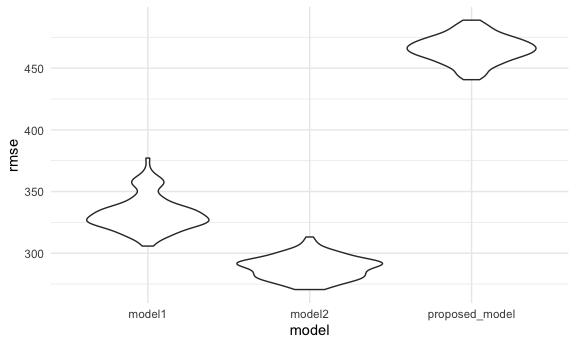
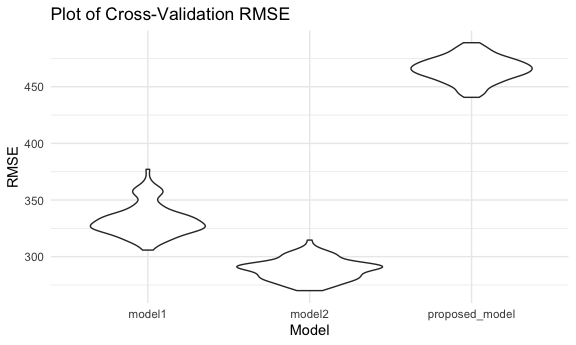
finish problem 3

diff --git a/p8105_hw6_lmt2203.md b/p8105_hw6_lmt2203.md
@@ -127,54 +127,11 @@ baby_df =
 
 **Modeling process**
 
-Proposed model
-
-``` r
-summary(lm(bwt ~ ., data = baby_df))  #babysex, bhead, blength, delwt, gaweeks, parity (*), smoken.
-```
-
-    ## 
-    ## Call:
-    ## lm(formula = bwt ~ ., data = baby_df)
-    ## 
-    ## Residuals:
-    ##      Min       1Q   Median       3Q      Max 
-    ## -1096.88  -185.28    -3.45   172.24  2347.81 
-    ## 
-    ## Coefficients: (7 not defined because of singularities)
-    ##                     Estimate Std. Error t value Pr(>|t|)    
-    ## (Intercept)       -6342.3515   659.7373  -9.613  < 2e-16 ***
-    ## babysexmale         -28.5990     8.4718  -3.376 0.000743 ***
-    ## bhead               130.6846     3.4534  37.842  < 2e-16 ***
-    ## blength              75.0054     2.0231  37.074  < 2e-16 ***
-    ## delwt                 4.1302     0.3951  10.455  < 2e-16 ***
-    ## fincome               0.3071     0.1796   1.710 0.087346 .  
-    ## fraceBlack          -80.9741    41.7014  -1.942 0.052231 .  
-    ## fraceOther           19.4250    83.7314   0.232 0.816555    
-    ## fracePuerto Rican   -48.2100    44.4466  -1.085 0.278128    
-    ## fraceWhite           52.6086    41.3134   1.273 0.202944    
-    ## gaweeks              11.5992     1.4667   7.908 3.29e-15 ***
-    ## malformpresent        9.9691    70.6959   0.141 0.887865    
-    ## menarche             -3.4617     2.8971  -1.195 0.232193    
-    ## mheight              10.4318    10.3157   1.011 0.311950    
-    ## momage                0.8249     1.2209   0.676 0.499320    
-    ## mraceBlack                NA         NA      NA       NA    
-    ## mraceOther                NA         NA      NA       NA    
-    ## mracePuerto Rican         NA         NA      NA       NA    
-    ## mraceWhite                NA         NA      NA       NA    
-    ## parity               95.6069    40.5193   2.360 0.018342 *  
-    ## pnumlbw                   NA         NA      NA       NA    
-    ## pnumsga                   NA         NA      NA       NA    
-    ## ppbmi                 5.1566    14.8999   0.346 0.729296    
-    ## ppwt                 -3.6018     2.6139  -1.378 0.168289    
-    ## smoken               -4.7618     0.5869  -8.114 6.33e-16 ***
-    ## wtgain                    NA         NA      NA       NA    
-    ## ---
-    ## Signif. codes:  0 '***' 0.001 '**' 0.01 '*' 0.05 '.' 0.1 ' ' 1
-    ## 
-    ## Residual standard error: 272.7 on 4323 degrees of freedom
-    ## Multiple R-squared:  0.7176, Adjusted R-squared:  0.7164 
-    ## F-statistic: 610.2 on 18 and 4323 DF,  p-value: < 2.2e-16
+I run a linear regression for all the variables and found that the
+gestational age in weeks (`gaweeks`) and average number of cigarettes
+smoked per day during pregnancy (`smoken`) are significantly associated
+with babies’ birthweights. So I am gonna fit a model using gestational
+age and number of cigarettes smoked as predictors.
 
 ``` r
 proposed_model = lm(bwt ~ gaweeks + smoken, data = baby_df)
@@ -205,78 +162,26 @@ summary(proposed_model)
 
 ``` r
 baby_df %>% 
-  modelr::add_residuals(proposed_model) %>% 
-  ggplot(aes(x = resid)) +
-  geom_density()
+  add_predictions(proposed_model) %>% 
+  add_residuals(proposed_model) %>% 
+  ggplot(aes(x = pred, y = resid)) + 
+  geom_point() + 
+  labs(
+    x  = "Residuals",
+    y = "Fitted Values",
+    title = "Residuals vs. Fitted Values"
+  )
 ```
 
 <img src="p8105_hw6_lmt2203_files/figure-gfm/unnamed-chunk-7-1.png" width="90%" />
 
-``` r
-baby_df %>% 
-  modelr::add_residuals(proposed_model) %>% 
-  ggplot(aes(x = gaweeks, y = resid)) +
-  geom_point() 
-```
-
-<img src="p8105_hw6_lmt2203_files/figure-gfm/unnamed-chunk-7-2.png" width="90%" />
-
-Two other models for comparison:
+Two other models for comparison given in the prompt:
 
 ``` r
 model1 = lm(bwt ~ blength + gaweeks, data = baby_df)
-summary(model1)
-```
 
-    ## 
-    ## Call:
-    ## lm(formula = bwt ~ blength + gaweeks, data = baby_df)
-    ## 
-    ## Residuals:
-    ##     Min      1Q  Median      3Q     Max 
-    ## -1709.6  -215.4   -11.4   208.2  4188.8 
-    ## 
-    ## Coefficients:
-    ##              Estimate Std. Error t value Pr(>|t|)    
-    ## (Intercept) -4347.667     97.958  -44.38   <2e-16 ***
-    ## blength       128.556      1.990   64.60   <2e-16 ***
-    ## gaweeks        27.047      1.718   15.74   <2e-16 ***
-    ## ---
-    ## Signif. codes:  0 '***' 0.001 '**' 0.01 '*' 0.05 '.' 0.1 ' ' 1
-    ## 
-    ## Residual standard error: 333.2 on 4339 degrees of freedom
-    ## Multiple R-squared:  0.5769, Adjusted R-squared:  0.5767 
-    ## F-statistic:  2958 on 2 and 4339 DF,  p-value: < 2.2e-16
-
-``` r
 model2 = lm(bwt ~ bhead * blength * babysex, data = baby_df)
-summary(model2)
 ```
-
-    ## 
-    ## Call:
-    ## lm(formula = bwt ~ bhead * blength * babysex, data = baby_df)
-    ## 
-    ## Residuals:
-    ##      Min       1Q   Median       3Q      Max 
-    ## -1132.99  -190.42   -10.33   178.63  2617.96 
-    ## 
-    ## Coefficients:
-    ##                             Estimate Std. Error t value Pr(>|t|)    
-    ## (Intercept)                -801.9487  1102.3077  -0.728 0.466948    
-    ## bhead                       -16.5975    34.0916  -0.487 0.626388    
-    ## blength                     -21.6460    23.3720  -0.926 0.354421    
-    ## babysexmale               -6374.8684  1677.7669  -3.800 0.000147 ***
-    ## bhead:blength                 3.3244     0.7126   4.666 3.17e-06 ***
-    ## bhead:babysexmale           198.3932    51.0917   3.883 0.000105 ***
-    ## blength:babysexmale         123.7729    35.1185   3.524 0.000429 ***
-    ## bhead:blength:babysexmale    -3.8781     1.0566  -3.670 0.000245 ***
-    ## ---
-    ## Signif. codes:  0 '***' 0.001 '**' 0.01 '*' 0.05 '.' 0.1 ' ' 1
-    ## 
-    ## Residual standard error: 287.7 on 4334 degrees of freedom
-    ## Multiple R-squared:  0.6849, Adjusted R-squared:  0.6844 
-    ## F-statistic:  1346 on 7 and 4334 DF,  p-value: < 2.2e-16
 
 **Cross-validated predicted error**
 
@@ -292,7 +197,7 @@ cv_df =
   cv_df %>% 
   mutate(
     model1  = map(train, ~lm(bwt ~ blength + gaweeks, data = .x)),
-    model2  = map(train, ~lm(bwt ~ bhead + blength + babysex, data = .x)),
+    model2  = map(train, ~lm(bwt ~ bhead * blength * babysex, data = .x)),
     proposed_model  = map(train, ~lm(bwt ~ gaweeks + smoken, data = .x))
     ) %>% 
   mutate(
@@ -313,16 +218,130 @@ cv_df %>%
     values_to = "rmse",
     names_prefix = "rmse_"
   ) %>% 
+  mutate(model = fct_inorder(model)) %>% 
   ggplot(aes(x = model, y = rmse)) +
-  geom_violin()
+  geom_violin() +
+  labs(
+    x = "Model",
+    y = "RMSE",
+    title = "Plot of Cross-Validation RMSE"
+  )
 ```
 
 <img src="p8105_hw6_lmt2203_files/figure-gfm/unnamed-chunk-10-1.png" width="90%" />
+
+The second comparison model with predictors head circumference, length,
+sex and all their interactions has the overall lowest RMSE values. My
+proposed model has the highest RMSE. Between these three models, I would
+probably pick the second model.
 
 # Problem 3
 
 Download dataset and just focus on Central Park, NY data.
 
-use bootstraps to obtain distribution for parameters interested in. Fit
-a linear model of tmax and tmin. Proporiton of r squared value
-(broom::glance) and log of (bo + b1) (broom::tidy)
+``` r
+weather_df = 
+  rnoaa::meteo_pull_monitors(
+    c("USW00094728"),
+    var = c("PRCP", "TMIN", "TMAX"), 
+    date_min = "2017-01-01",
+    date_max = "2017-12-31") %>%
+  mutate(
+    name = recode(id, USW00094728 = "CentralPark_NY"),
+    tmin = tmin / 10,
+    tmax = tmax / 10) %>%
+  select(name, id, everything())
+```
+
+    ## Registered S3 method overwritten by 'hoardr':
+    ##   method           from
+    ##   print.cache_info httr
+
+    ## using cached file: /Users/linhmaitran/Library/Caches/R/noaa_ghcnd/USW00094728.dly
+
+    ## date created (size, mb): 2020-10-05 10:25:47 (7.522)
+
+    ## file min/max dates: 1869-01-01 / 2020-10-31
+
+Bootstrap 5000 samples
+
+``` r
+set.seed(1)
+
+weather_boot_results =
+  weather_df %>%
+  bootstrap(5000, id = "strap_number") %>% 
+  mutate(
+    models = map(.x = strap, ~lm (tmax ~ tmin, data = .x)),
+    results = map(models, broom::tidy),
+    glance = map(models, broom::glance)
+  ) %>% 
+  unnest(results, glance) %>% 
+  select(strap_number, term, estimate, r.squared) %>% 
+  pivot_wider(
+    names_from = "term",
+    values_from = "estimate"
+  ) %>% 
+  rename(intercept = "(Intercept)") %>% 
+  mutate(log_est = log(intercept * tmin))
+```
+
+    ## Warning: unnest() has a new interface. See ?unnest for details.
+    ## Try `df %>% unnest(c(results, glance))`, with `mutate()` if needed
+
+**Distribution of \({\hat{r}}^2\)**
+
+``` r
+weather_boot_results %>% 
+  ggplot(aes(x = r.squared)) +
+  geom_density() +
+  labs(
+    x = "R-squared Estimate",
+    title = "Distribution of R-squared Estimate"
+  )
+```
+
+<img src="p8105_hw6_lmt2203_files/figure-gfm/unnamed-chunk-13-1.png" width="90%" />
+
+The distribution of r-squared is slightly left-skewed.  
+
+Distribution of \(log(\widehat{\beta_o}\ *\ \widehat{\beta_1})\ \)
+
+``` r
+weather_boot_results %>% 
+  ggplot(aes(x = log_est)) + 
+  geom_density() 
+```
+
+<img src="p8105_hw6_lmt2203_files/figure-gfm/unnamed-chunk-14-1.png" width="90%" />
+
+95% CI for \({\hat{r}}^2\) and
+\(log(\widehat{\beta_o}\ *\ \widehat{\beta_1})\ \)
+
+``` r
+set.seed(1)
+
+weather_boot_results %>% 
+  select(-intercept, -tmin) %>% 
+  pivot_longer(
+  r.squared:log_est,
+  names_to = "term",
+  values_to = "estimate"
+  ) %>% 
+  group_by(term) %>% 
+  summarize(
+    ci_lower = quantile(estimate, 0.025),
+    ci_upper = quantile(estimate, 0.975)
+  ) %>% 
+  knitr::kable()
+```
+
+    ## `summarise()` ungrouping output (override with `.groups` argument)
+
+| term      | ci\_lower | ci\_upper |
+| :-------- | --------: | --------: |
+| log\_est  | 1.9649487 |  2.058887 |
+| r.squared | 0.8936684 |  0.927106 |
+
+The 95% confidence interval for R squared is (0.893, 0.927) and for
+log(B0\*B1) it is (1.965, 2.059).
